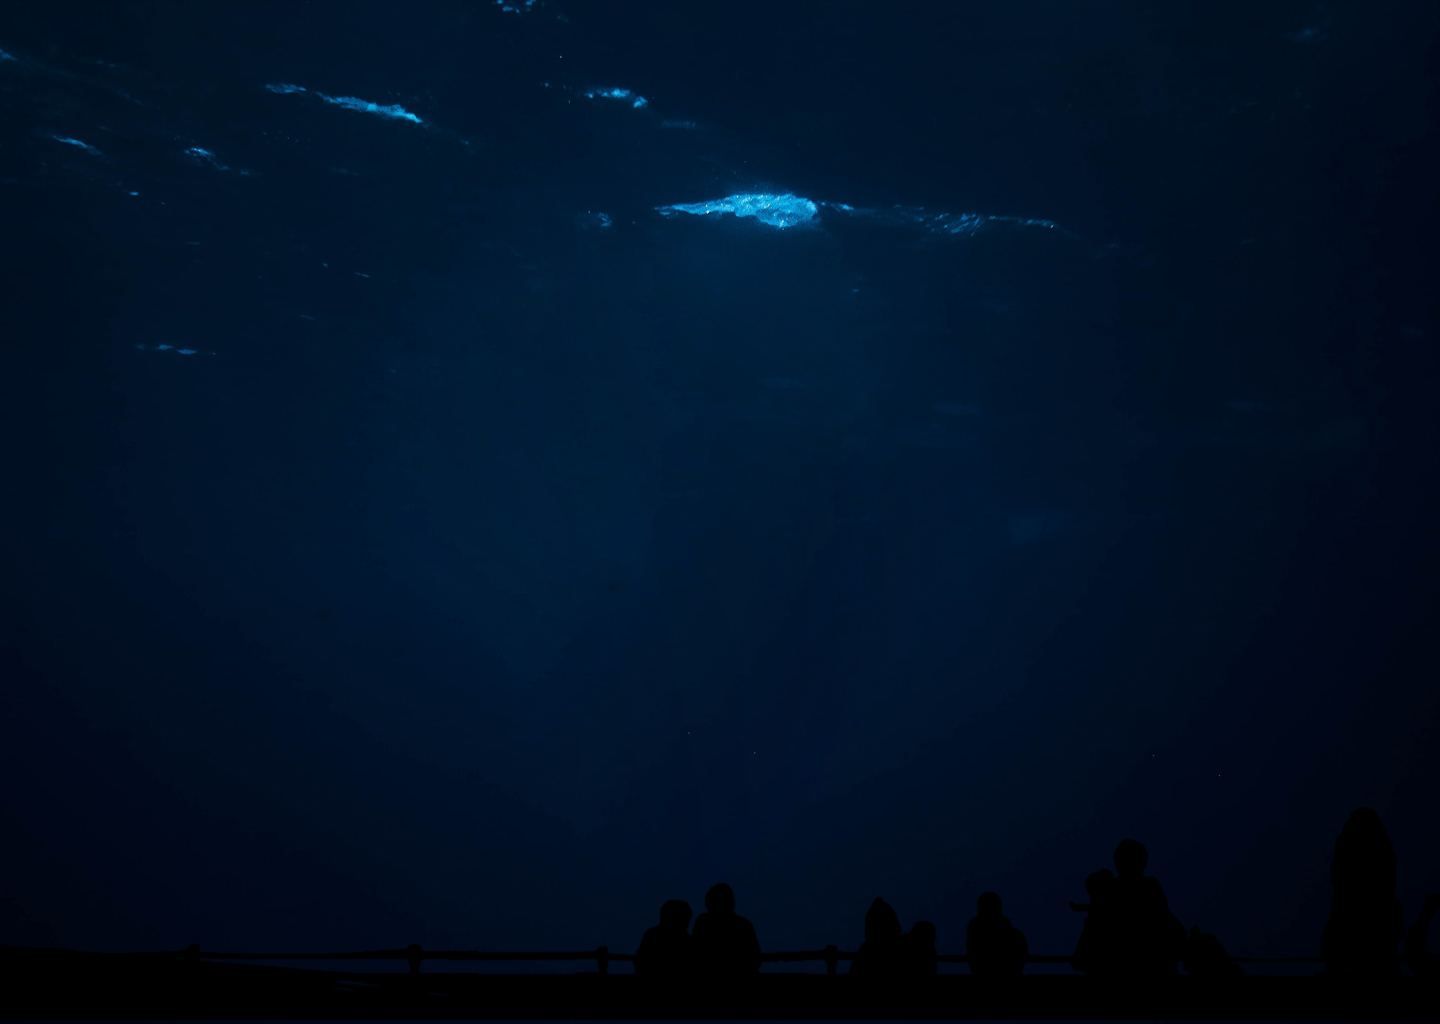
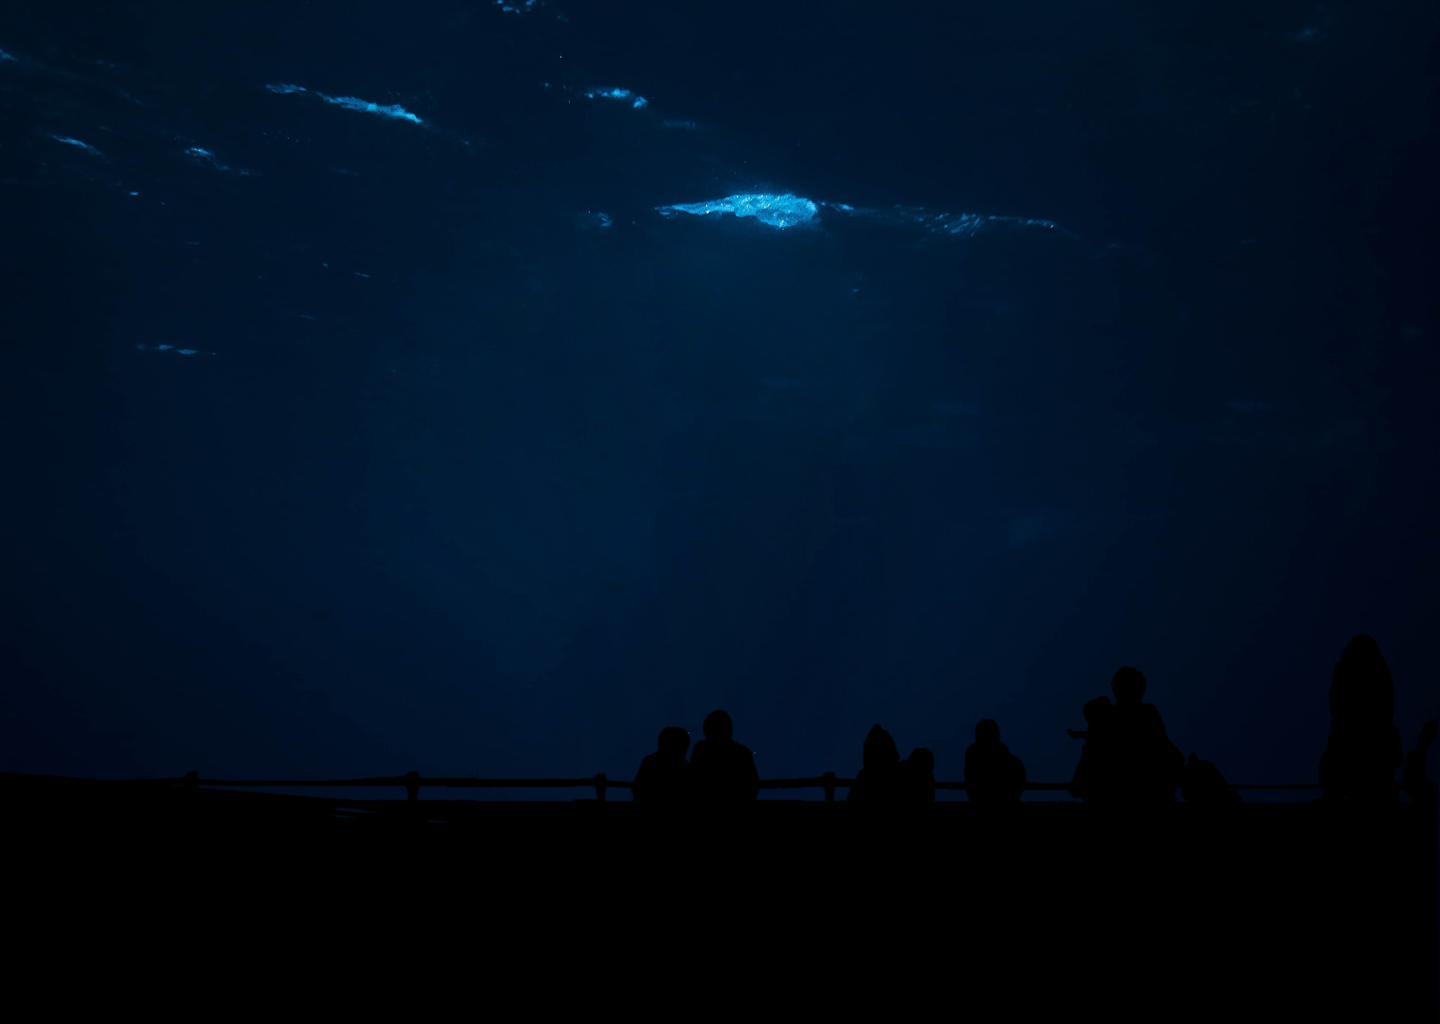
feat : footer 반응형 작업 중
header 반응형 완료, footer 반응형 작업 중

Changed region(s): [[0.0, 0.6562, 0.9062, 0.9688], [0.9062, 0.625, 0.9688, 0.7188]]

diff --git a/css/header.css b/css/header.css
@@ -8,7 +8,6 @@
   z-index: 99999;
 }
 .header .inner {
-  position: relative;
   width: 100%;
   padding: 0px 25px;
   margin: 0 auto;
@@ -49,7 +48,8 @@
   color: white;
 }
 .gnb > li:hover > a {
-  color: #0eabee;
+  color: #0f97e7;
+  font-weight: 900;
 }
 .submenu {
   position: absolute;
@@ -68,7 +68,7 @@
   background: rgba(0, 0, 0, 0.7);
 }
 .submenu li:hover a {
-  color: #0eabee;
+  color: #0f97e7;
 }
 .navbar_toggleBtn {
   display: none;
@@ -76,6 +76,9 @@
   font-size: 24px;
   right: 0;
   color: #fff;
+}
+.fa-xmark {
+  display: none;
 }
 @media all and (max-width: 1680px){
   .nav_bar > ul {
@@ -96,6 +99,12 @@
   .header {
     flex-direction: column;
     justify-content: flex-end;
+  }
+  .header .inner {
+    padding: 0px;
+  }
+  .logo img {
+    margin-left: 20px;
   }
   .gnb > li {
     display: block;
@@ -119,8 +128,8 @@
   }
   .gnb > li {
     position: relative;
-    width: 115%;
-    padding: 10px 25px;
+    width: 100%;
+    padding: 20px 25px;
     background-color: rgba(0, 0, 0, 0.7);
   }
   .gnb > li > a {
@@ -131,14 +140,15 @@
   .submenu {
     width: 100%;
     position: relative;
-    top: 0px;
+    top: 15px;
   }
   .submenu > li > a {
-    text-align: center;
+    text-align: left;
     color: #fff;
   }
   .navbar_toggleBtn {
     display: inline-block;
+    margin-right: 20px;
   }
   .gnb.active {
     display: flex;

diff --git a/main.html b/main.html
@@ -115,6 +115,7 @@
           </ul>
           <a href="#" class="navbar_toggleBtn">
             <i class="fa-solid fa-bars"></i>
+            <i class="fa-solid fa-xmark"></i>
           </a>
         </nav>
       </div>
@@ -375,13 +376,29 @@
       </section>
     </section>
     <!-- 이벤트 -->
-    <section class="event">
-      <div class="inner"></div>
+    <section class="eventfooter">
+      <div class="event">
+        <div class="inner">
+
+        </div>
+      </div>
+      <footer class="footer">
+        <div class="inner">
+          <ul class="sns">
+            <li><a href="#"><img src="" alt=""></a></li>
+            <li><a href="#"><img src="" alt=""></a></li>
+            <li><a href="#"><img src="" alt=""></a></li>
+          </ul>
+          <div class="copyright">
+            <ul>
+              <li>COPYRIGHT @2023 All Rights Reserved.</li>
+              <li>00사무소 : (00000) 000도 00시 00구 00로 00번길 0, 0층000호 TEL : 055-263-2060 FAX : 055-263-2087</li>
+            </ul>
+          </div>
+        </div>
+      </footer>
     </section>
     <!-- 하단 -->
-    <footer class="footer">
-      <div class="inner"></div>
-    </footer>
   </div>
 </body>
 </html>

diff --git a/css/footer.css b/css/footer.css
@@ -1,5 +1,47 @@
 /* 하단 */
 .footer {
+  position: absolute;
+  bottom: 0;
+  width: 100%;
+  background: rgba(0, 0, 0, 0.7);
+  height: 150px;
+  z-index: 99999;
+}
+.footer .inner {
+  position: relative;
+  width: 100%;
+  padding: 0px 25px;
+  margin: 0 auto;
+  max-width: 1600px;
+  height: 100%;
+  display: flex;
+  flex-direction: column;
+  justify-content: center;
+  /* align-items: center; */
+}
+.sns {
+  width: 30%;
+  min-width: 100px;
+  max-width: 150px;
+  margin: 0 auto;
+  margin-bottom: 20px;
+  background-color: black;
+  display: flex;
+  justify-content: space-between;
+  align-items: center;
+}
+.sns > li {
+  width: 30px;
+  height: 30px;
+  background-color: crimson;
+  border-radius: 50%;
+}
+.copyright {
+  text-align: center;
+  color: #fff;
+}
+.copyright ul li {
+  margin-bottom: 10px;
 }
 @media all and (max-width: 1680px){
   

diff --git a/js/header.js b/js/header.js
@@ -11,10 +11,18 @@ $(".gnb > li").mouseout(function(){
 // 멀티미디어 리소스 로딩 완료 후 실행
 window.addEventListener("load", function() {
   // 햄버거바 클릭하면 메뉴가 아래로 펼쳐짐
-  const toggleBar = document.querySelector(".navbar_toggleBtn");
+  const hambergerBar = document.querySelector(".fa-bars");
+  const xmark = document.querySelector(".fa-xmark");
   let gnb = document.querySelector(".gnb");
 
-  toggleBar.addEventListener("click", function() {
+  hambergerBar.addEventListener("click", function() {
     gnb.classList.add("active");
+    hambergerBar.style.display = "none";
+    xmark.style.display = "block";
+  });
+  xmark.addEventListener("click", function() {
+    gnb.classList.remove("active");
+    hambergerBar.style.display = "block";
+    xmark.style.display = "none";
   });
 });

diff --git a/css/main_event.css b/css/main_event.css
@@ -1,5 +1,5 @@
 /* 메인_이벤트 */
-.event {
+.eventfooter {
   position: relative;
   height: 100vh;
   background: url("../images/main5.jpg") no-repeat;

diff --git a/css/common.css b/css/common.css
@@ -7,4 +7,9 @@
 }
 .inner {
   position: relative;
+  width: 100%;
+  padding: 0px 25px;
+  margin: 0 auto;
+  max-width: 1600px;
+  height: 100%;
 }
